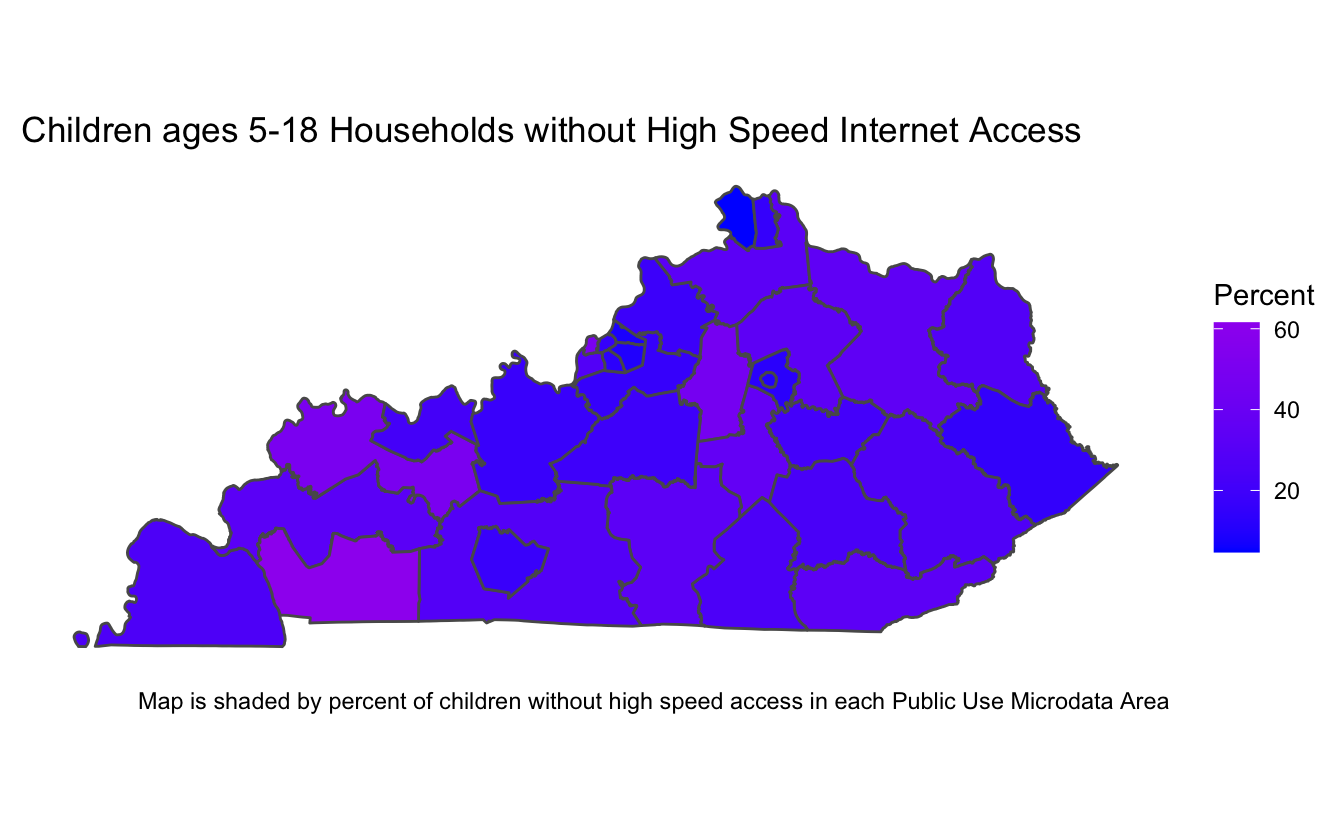
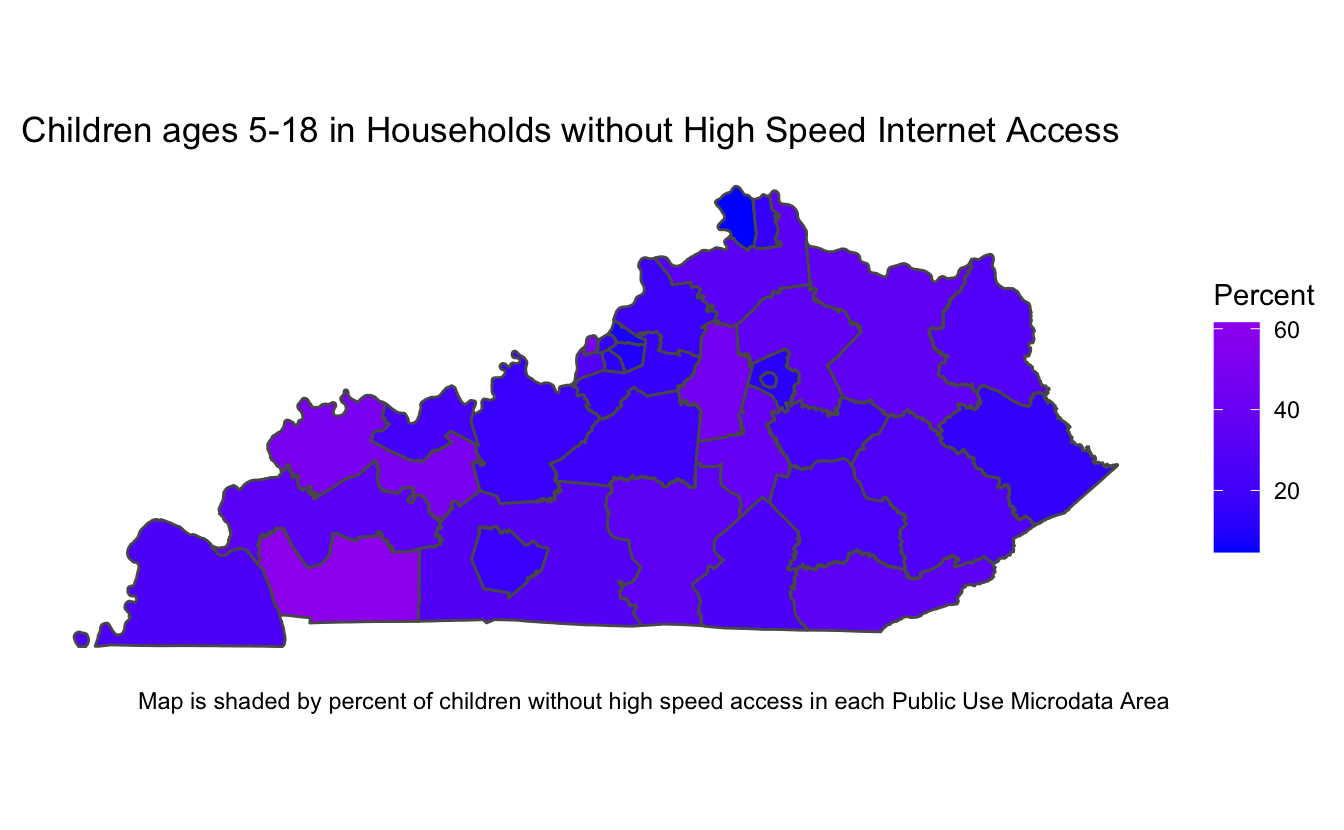
fix map title

Changed region(s): [[0.25, 0.1205, 0.8438, 0.1807]]

diff --git a/content/post/internet_census_microdata/index.md b/content/post/internet_census_microdata/index.md
@@ -27,7 +27,7 @@ image:
 #   E.g. `projects = ["internal-project"]` references `content/project/deep-learning/index.md`.
 #   Otherwise, set `projects = []`.
 projects: []
-rmd_hash: 64e39f2353b2fa6d
+rmd_hash: 4f711cc8baf59e14
 
 ---
 
@@ -715,7 +715,7 @@ As I've mentioned, a nice feature of using microdata is that you can look at the
         axis.ticks = <span class='nf'>element_blank</span>(),
         axis.title = <span class='nf'>element_blank</span>(),
         panel.border = <span class='nf'>element_blank</span>()) <span class='o'>+</span>
-  <span class='nf'>labs</span>(title = <span class='s'>"Children ages 5-18 Households without High Speed Internet Access"</span>,
+  <span class='nf'>labs</span>(title = <span class='s'>"Children ages 5-18 in Households without High Speed Internet Access"</span>,
        caption = <span class='s'>"Map is shaded by percent of children without high speed access in each Public Use Microdata Area"</span>)
 
 </code></pre>
